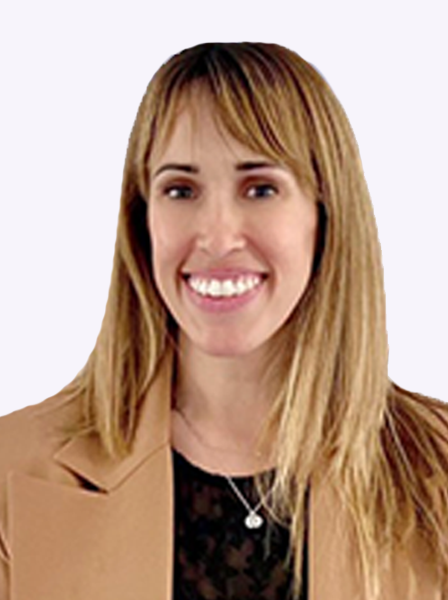
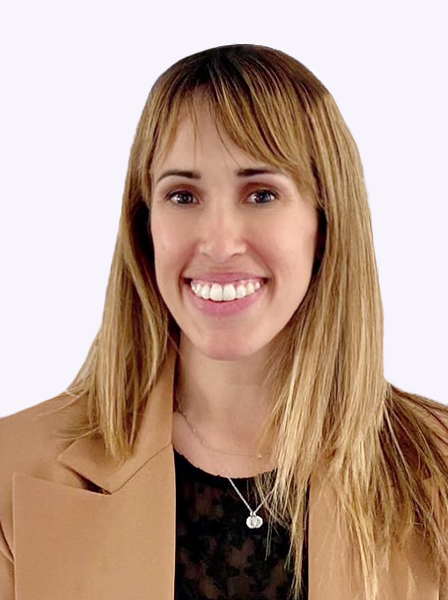
Added student missing, update student and tutor photo
- Added Paloma Sicre.
- Changed Paloma Lorente photo.
- Changed Miss Mónica photo.

diff --git a/2ºB-class.html b/2ºB-class.html
@@ -136,6 +136,7 @@
                     <p class="photos-title">Blanca Fontenla</p>
                 </div>
                 <div class="back">
+                    <!-- TODO: Cambiar frase Blanca Fontenla -->
                     <img class="photos-mini-image" src="./assets/students/Fontenla.jpg" alt="Blanca Fontenla">
                     <h2>Blanca Fontenla</h2>
                     <p>"Frase :)"</p>
@@ -155,11 +156,12 @@
             </div>
             <div class="flip">
                 <div class="front">
-                    <img class="photos photos-tile photos-image" src="./assets/Blank.jpg" alt="Paloma Lorente">
+                    <img class="photos photos-tile photos-image" src="./assets/students/Lorente.png"
+                        alt="Paloma Lorente">
                     <p class="photos-title">Paloma Lorente</p>
                 </div>
                 <div class="back">
-                    <img class="photos-mini-image" src="./assets/Blank.jpg" alt="Paloma Lorente">
+                    <img class="photos-mini-image" src="./assets/students/Lorente.png" alt="Paloma Lorente">
                     <h2>Paloma Lorente</h2>
                     <p>"IIIIIAAAAAA."</p>
                 </div>
@@ -189,7 +191,8 @@
             </div>
             <div class="flip">
                 <div class="front">
-                    <img class="photos photos-tile photos-image" src="./assets/Blank.jpg"" alt=" Daniel Martínez">
+                    <!-- TODO: Añadir foto Daniel Martínez -->
+                    <img class="photos photos-tile photos-image" src="./assets/Blank.jpg" alt="Daniel Martínez">
                     <p class="photos-title">Daniel Martínez</p>
                 </div>
                 <div class="back">
@@ -206,6 +209,7 @@
                 <div class="back">
                     <img class="photos-mini-image" src="./assets/students/Mateos.jpg" alt="Irene Mateos">
                     <h2>Irene Mateos</h2>
+                    <!-- TODO: Cambiar frase Irene Mateos -->
                     <p>"Ojalá me lleve el diablo."</p>
                 </div>
             </div>
@@ -257,6 +261,18 @@
             </div>
             <div class="flip">
                 <div class="front">
+                    <!-- TODO: Añadir foto y frase Paloma Sicre -->
+                    <img class="photos photos-tile photos-image" src="./assets/Blank.jpg" alt="Paloma Sicre">
+                    <p class="photos-title">Paloma Sicre</p>
+                </div>
+                <div class="back">
+                    <img class="photos-mini-image" src="./assets/Blank.jpg" alt="Paloma Sicre">
+                    <h2>Paloma Sicre</h2>
+                    <p>"Frase :)"</p>
+                </div>
+            </div>
+            <div class="flip">
+                <div class="front">
                     <img class="photos photos-tile photos-image" src="./assets/students/Verdejo.jpg"
                         alt="Lucía Verdejo">
                     <p class="photos-title">Lucía Verdejo</p>
@@ -287,6 +303,7 @@
                 <div class="back">
                     <img class="photos-mini-image" src="./assets/students/Zarco.jpg" alt="Inés Zarco">
                     <h2>Inés Zarco</h2>
+                    <!-- TODO: Cambiar frase Inés Zarco -->
                     <p>"¡Y que poco es una vida para darla!"</p>
                 </div>
             </div>
